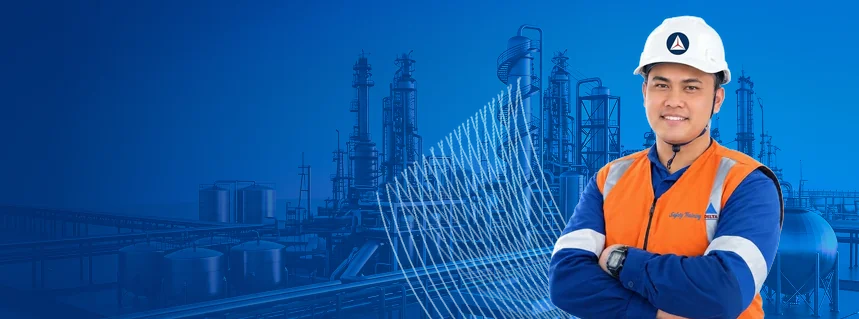
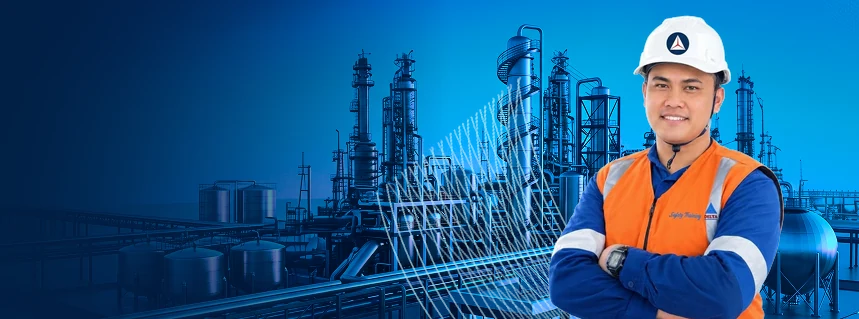
style(cta): remove blue overlay so inspector model has 100% natural colors

diff --git a/delta-nusantara-persada/frontend/components/ui/TestimonialCTA.tsx b/delta-nusantara-persada/frontend/components/ui/TestimonialCTA.tsx
@@ -98,8 +98,6 @@ export default function TestimonialCTA() {
                 sizes="(max-width: 1024px) 100vw, 850px"
                 className="object-cover object-right"
               />
-              {/* Left gradient overlay ensuring 100% typography legibility */}
-              <div className="absolute inset-0 bg-gradient-to-r from-[#01224D] via-[#01224D]/90 via-45% to-transparent" />
             </div>
 
             {/* Text & Content (Constrained to left side so it NEVER overlays the inspector model) */}

diff --git a/delta-nusantara-persada/frontend/scripts/render-ondos-composite.py b/delta-nusantara-persada/frontend/scripts/render-ondos-composite.py
@@ -2,7 +2,6 @@ import os
 import io
 import re
 import base64
-import math
 from PIL import Image
 
 with open('public/images/ondos.svg', 'r', encoding='utf-8') as f:
@@ -17,37 +16,34 @@ canvas = Image.new('RGBA', (859, 319), (0, 0, 0, 0))
 im0 = Image.open(io.BytesIO(base64.b64decode(matches[0]))).convert('RGBA')
 canvas.paste(im0, (0, 0))
 
-# Gradient blue overlay
-# In SVG: <rect width="859" height="319" rx="20" fill="url(#paint0_linear_5442_4405)"/>
-# Linear gradient from (50, 159.5) to (688.5, 159.5) #012F73 -> #014195 -> #004EA8 -> #0163CD (0.5 opacity)
-# Let's create a smooth gradient overlay
+# Smooth dark navy gradient ONLY on the left (x: 0 to 450) so text is 100% legible, fading to 0% alpha on right
 grad = Image.new('RGBA', (859, 319), (0, 0, 0, 0))
 for x in range(859):
-    t = max(0.0, min(1.0, (x - 50) / 638.5))
-    r = int(1 * (1 - t) + 1 * t)
-    g = int(47 * (1 - t) + 99 * t)
-    b = int(115 * (1 - t) + 205 * t)
-    a = int(220 * (1 - t) + 120 * t)
+    if x < 450:
+        t = x / 450.0
+        # Dark navy #011E42 fading smoothly to transparent
+        a = int(240 * (1.0 - (t ** 1.5)))
+        r, g, b = 1, 30, 66
+    else:
+        a = 0
+        r, g, b = 0, 0, 0
     for y in range(319):
         grad.putpixel((x, y), (r, g, b, a))
 
 canvas = Image.alpha_composite(canvas, grad)
 
-# Layer 1: Mesh waves
-# <rect x="124.584" y="-588" width="1127.72" height="952.899" transform="rotate(17.8181 124.584 -588)" fill="url(#pattern2_5442_4405)"/>
+# Layer 1: Mesh waves (placed behind model)
 im1 = Image.open(io.BytesIO(base64.b64decode(matches[1]))).convert('RGBA')
 im1_resized = im1.resize((1128, 953), Image.Resampling.LANCZOS)
 im1_rot = im1_resized.rotate(-17.8, resample=Image.Resampling.BICUBIC, expand=True)
-# Paste rotated mesh waves
 canvas.paste(im1_rot, (100, -200), im1_rot)
 
-# Layer 2: Inspector model
-# <rect x="495" y="-8" width="348" height="348" fill="url(#pattern3_5442_4405)"/>
+# Layer 2: Inspector model (100% natural colors, zero tint)
 im2 = Image.open(io.BytesIO(base64.b64decode(matches[2]))).convert('RGBA')
 im2_resized = im2.resize((348, 348), Image.Resampling.LANCZOS)
 canvas.paste(im2_resized, (495, -8), im2_resized)
 
 # Save high-res crisp WebP
 output_path = 'public/images/ondos.webp'
-canvas.save(output_path, 'WEBP', quality=85, method=6)
+canvas.save(output_path, 'WEBP', quality=88, method=6)
 print(f"Composited ondos.webp with Model saved: {os.path.getsize(output_path)/1024:.1f} KB")
